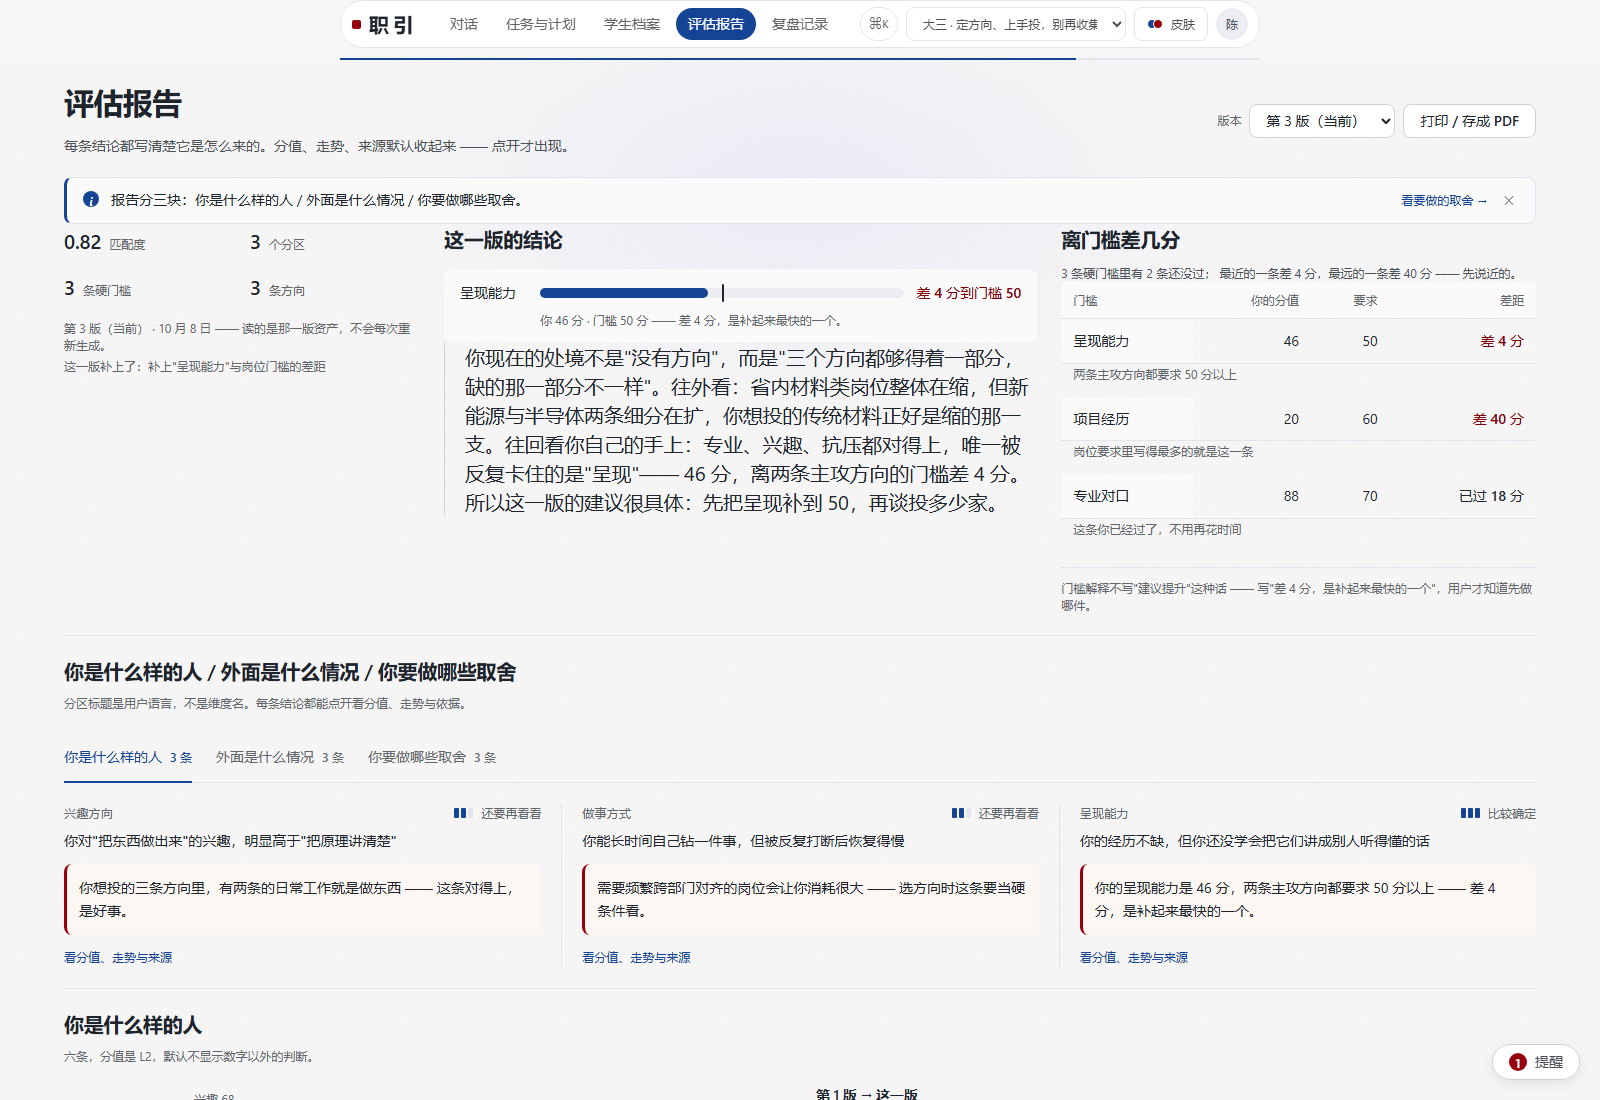
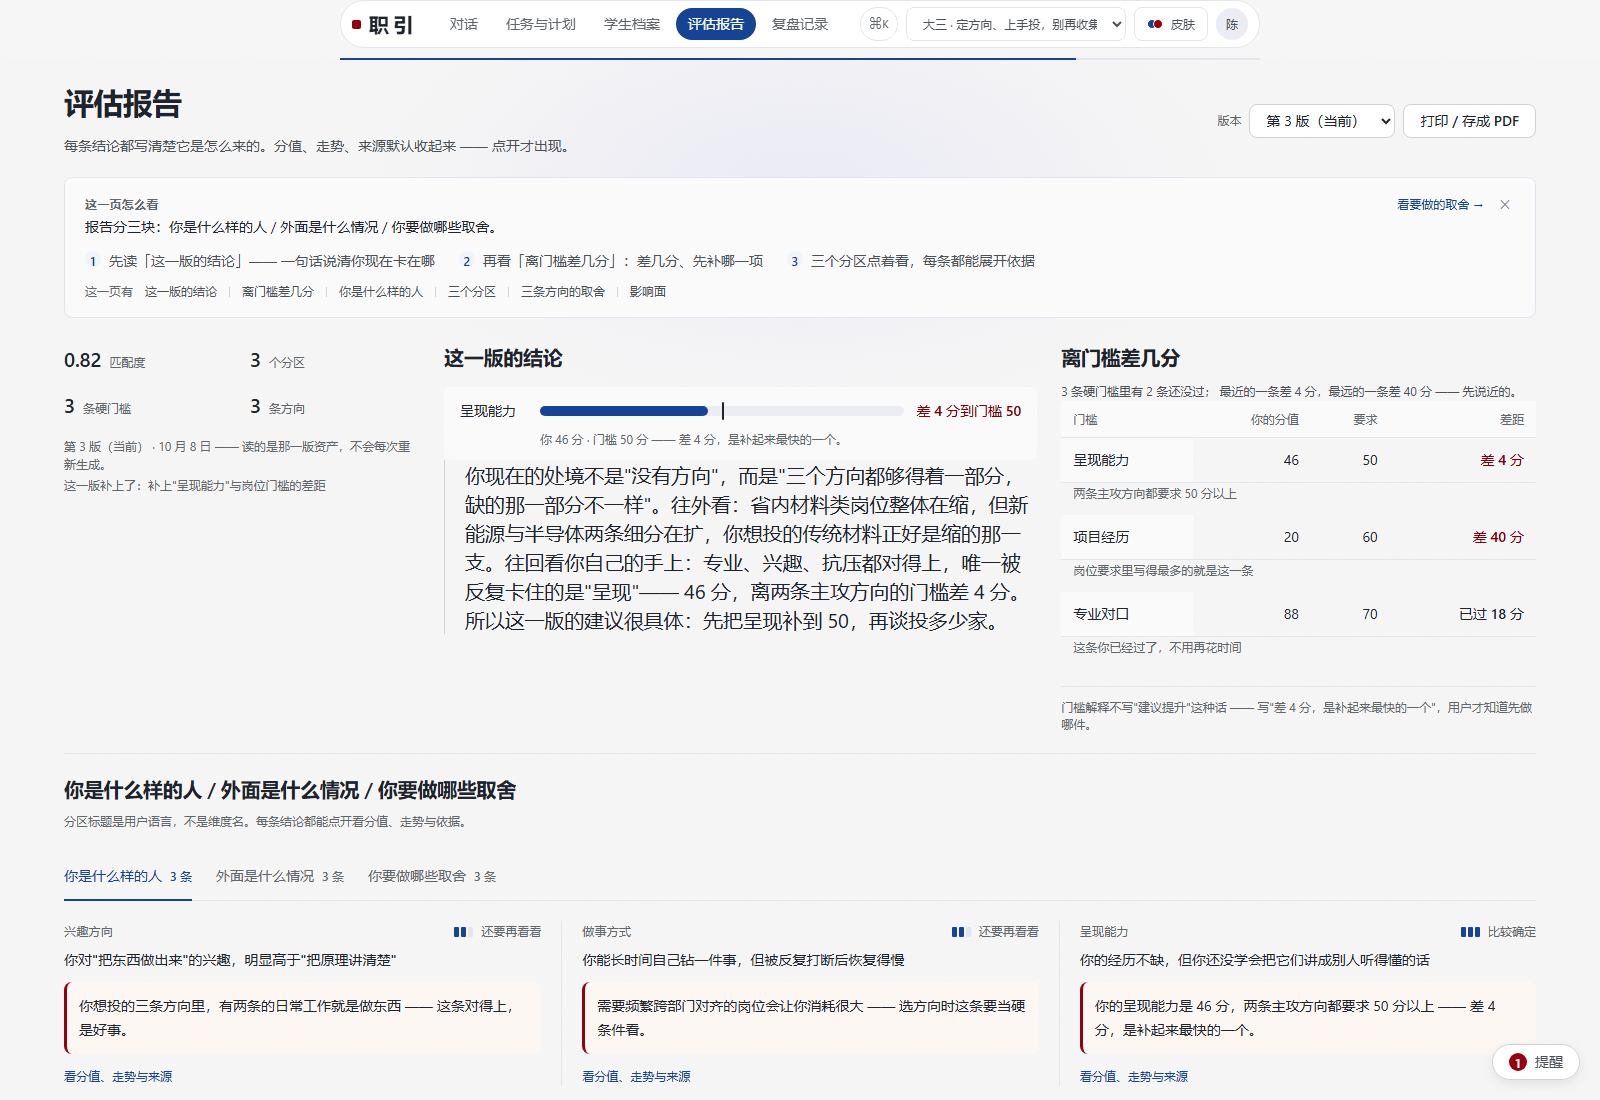
新前端：每页加「这一页怎么看 + 这一页有」入口带，解决"打开不知道从哪下手"
客户的原话：「感觉乱，我希望用户一点开就能知道如何使用，清晰的知道有什么信息，
现在的界面上下左右都有信息，用户不知道如何使用。」

查出的直接原因：那条"这里是干什么的、下一步去哪"的引导条（GuideNote）
在前几轮重做里被放到了**每页最下面**（五页里只有报告页在顶部）——
"怎么用"是最后一屏才看到的东西，等于没有。

改动：
- GuideNote 重做成**入口带**，固定放在页头正下方第一位，承担三件事：
  · 一句"这一页是什么"
  · 三步"怎么看"（编号，给出的就是阅读顺序）
  · 一行"这一页有"（块名按出现顺序列全 —— 客户要的"知道有什么信息"）
  收起后仍不再打扰，可以一次恢复。
- 五页都补了三步与清单，用词全部取自该页真有的分区名（"今天这一件""两本账"
  "还差 3 条""离门槛差几分"…），不新造词。
- 顺手把 GuideNote 里那道 3px 主色左线去掉（craft floor 明令禁止装饰性彩色竖规）。

验证：五页入口带均在位（步骤 3 / 清单 5–6 项）；
build / check-contrast / check-classes 三条门禁全绿；26 张回归截图已重拍。
整页高度 0.9 / 1.7 / 1.2 / 2.4 / 1.6 / 1.1 屏，没有回到"滚三屏"。

diff --git a/redesign-demo/src/components/GuideNote.vue b/redesign-demo/src/components/GuideNote.vue
@@ -3,15 +3,35 @@ import { computed } from 'vue'
 import { demo } from '../store'
 
 /**
- * 操作引导 —— 评审硬要求。
+ * 这一页怎么看 —— 每页的**入口**，位置固定在页头正下方第一位。
  *
- * 每进入一处功能，先说清"这里是干什么的、下一步去哪"，
- * 用户收起后不再打扰（记住收起了哪几处），但可以一次恢复。
+ * 【2026-10-12 重做】客户的原话：
+ *   「感觉乱，我希望用户一点开就能知道如何使用，清晰的知道有什么信息，
+ *     现在的界面上下左右都有信息，用户不知道如何使用。」
+ *
+ * 所以它现在承担三件事，对应客户说的三个缺口：
+ *   1. 一点开就知道怎么用   → 一句"这一页是什么" + 三步"怎么看"，第一步就是入口
+ *   2. 清晰知道有什么信息   → 三步的用词全部取自这一页真有的分区名，不新造词
+ *   3. 上下左右都有信息、没顺序 → 三步是**编号的**，它给出的就是阅读顺序
+ *
+ * 上一版的毛病：它被放在页面**最下面**（只有报告页在顶部），而且长得像脚注。
+ * "怎么用"是最后一屏才看到的东西 —— 那就等于没有。
+ *
+ * 评审硬要求仍然成立：用户收起后不再打扰（记住收起了哪几处），可以一次恢复。
  */
 const props = defineProps<{
   /** 唯一 key：同一页可以有两条引导 */
   gkey: string
+  /** 这一页是什么、下一步去哪（语气档一：说人话） */
   text: string
+  /** 三步"怎么看"。每一步都必须是这一页上真有的东西：分区名、块名、动作名。 */
+  steps?: string[]
+  /**
+   * 「这一页有」：把这一页的块名**按出现顺序**列一遍。
+   * 与 steps 的区别：steps 是"怎么做"（动作），contents 是"有什么"（清单）——
+   * 客户的原话是"清晰的知道有什么信息"，光有步骤还是不知道一共有几块。
+   */
+  contents?: string[]
   /** 下一步去哪（可选） */
   to?: string
   toLabel?: string
@@ -22,72 +42,150 @@ const closed = computed(() => demo.state.guidesClosed[props.gkey] === true)
 
 <template>
   <Transition name="guide">
-    <div v-if="!closed" class="guide">
-      <span class="guide__mark" aria-hidden="true">i</span>
-      <p class="guide__text">{{ text }}</p>
-      <RouterLink v-if="to" class="guide__to" :to="to">{{ toLabel ?? '去下一步' }} →</RouterLink>
-      <button class="guide__close" aria-label="收起这条引导" @click="demo.closeGuide(gkey)">
-        ✕
-      </button>
-    </div>
+    <section v-if="!closed" class="howto" aria-label="这一页怎么看">
+      <div class="howto__main">
+        <p class="howto__title">这一页怎么看</p>
+        <p class="howto__text">{{ props.text }}</p>
+        <ol v-if="props.steps?.length" class="howto__steps">
+          <li v-for="(s, i) in props.steps" :key="i" class="howto__step">
+            <span class="howto__n" aria-hidden="true">{{ i + 1 }}</span>
+            <span>{{ s }}</span>
+          </li>
+        </ol>
+
+        <!-- 「这一页有什么」—— 清单，不是动作。用户看完这一行就知道往下还有几块 -->
+        <p v-if="props.contents?.length" class="howto__index">
+          <span class="howto__index-k">这一页有</span>
+          <span v-for="(c, i) in props.contents" :key="i" class="howto__index-i">{{ c }}</span>
+        </p>
+      </div>
+
+      <div class="howto__side">
+        <RouterLink v-if="props.to" class="howto__to" :to="props.to">
+          {{ props.toLabel ?? '去下一步' }} →
+        </RouterLink>
+        <button class="howto__close" aria-label="收起这条引导" @click="demo.closeGuide(props.gkey)">
+          ✕
+        </button>
+      </div>
+    </section>
   </Transition>
 </template>
 
 <style scoped>
-.guide {
+.howto {
   display: flex;
   align-items: flex-start;
-  gap: var(--sp-3);
-  padding: var(--sp-3) var(--sp-4);
+  gap: var(--sp-4);
+  margin-bottom: var(--sp-6);
+  padding: var(--sp-4) var(--sp-5);
   border-radius: var(--r-md);
-  /* 中性底 + 一道主色左线。
-     不用主色浅底：主色换成河大红之后，整条提示会变成红的，读起来像警告 ——
-     而它只是"这里是干什么的"。主色底只留给"选中/交互"。 */
   background: var(--c-surface-2);
   border: var(--bw-1) solid var(--c-border);
-  border-left: 3px solid var(--c-primary);
 }
 
-.guide__mark {
-  width: 16px;
-  height: 16px;
-  flex: none;
-  margin-top: 1px;
-  display: grid;
-  place-items: center;
-  border-radius: var(--r-pill);
-  background: var(--c-primary);
-  color: var(--c-on-primary);
+.howto__main {
+  flex: 1;
+  min-width: 0;
+}
+
+.howto__title {
   font-size: var(--fs-12);
   font-weight: var(--fw-semibold);
-  font-style: italic;
+  color: var(--c-text-3);
+  letter-spacing: 0.02em;
 }
 
-.guide__text {
-  flex: 1;
+.howto__text {
+  margin-top: 2px;
   font-size: var(--fs-14);
   color: var(--c-text);
   line-height: var(--lh-snug);
+  max-width: 46em;
 }
 
-.guide__to {
+/* 三步横排：一屏一行放下，读起来就是"①→②→③" */
+.howto__steps {
+  display: flex;
+  flex-wrap: wrap;
+  gap: var(--sp-2) var(--sp-6);
+  margin-top: var(--sp-3);
+}
+
+.howto__step {
+  display: flex;
+  align-items: baseline;
+  gap: var(--sp-2);
+  font-size: var(--fs-14);
+  color: var(--c-text-2);
+}
+
+.howto__n {
+  width: 16px;
+  height: 16px;
   flex: none;
+  display: grid;
+  place-items: center;
+  border-radius: var(--r-pill);
+  background: var(--c-primary-weak);
+  color: var(--c-primary);
+  font-size: var(--fs-12);
+  font-weight: var(--fw-semibold);
+}
+
+/* 「这一页有」：块名一行排开，中间用发丝竖线分而不是圆点（圆点已被步骤占用） */
+.howto__index {
+  display: flex;
+  flex-wrap: wrap;
+  align-items: baseline;
+  gap: 0 var(--sp-3);
+  margin-top: var(--sp-2);
+  font-size: var(--fs-12);
+  color: var(--c-text-3);
+}
+
+.howto__index-k {
+  color: var(--c-text-3);
+}
+
+.howto__index-i + .howto__index-i::before {
+  content: '';
+  display: inline-block;
+  width: var(--bw-1);
+  height: 10px;
+  margin-right: var(--sp-3);
+  background: var(--c-border-strong);
+  vertical-align: -1px;
+}
+
+.howto__index-i {
+  color: var(--c-text-2);
+}
+
+.howto__side {
+  flex: none;
+  display: flex;
+  align-items: center;
+  gap: var(--sp-3);
+}
+
+.howto__to {
   font-size: var(--fs-12);
   font-weight: var(--fw-medium);
   white-space: nowrap;
 }
 
-.guide__close {
-  flex: none;
+.howto__close {
   width: 20px;
   height: 20px;
+  flex: none;
   border-radius: var(--r-sm);
   color: var(--c-text-3);
   font-size: var(--fs-12);
   line-height: 1;
 }
 
-.guide__close:hover {
+.howto__close:hover {
   background: var(--c-surface-3);
   color: var(--c-text);
 }
@@ -100,5 +198,16 @@ const closed = computed(() => demo.state.guidesClosed[props.gkey] === true)
 .guide-enter-from,
 .guide-leave-to {
   opacity: 0;
+}
+
+@media (max-width: 760px) {
+  .howto {
+    flex-direction: column;
+  }
+
+  .howto__side {
+    width: 100%;
+    justify-content: flex-end;
+  }
 }
 </style>

diff --git a/redesign-demo/src/views/HomeView.vue b/redesign-demo/src/views/HomeView.vue
@@ -65,6 +65,20 @@ function badgeClass(t: TaskItem) {
       </div>
     </header>
 
+    <!-- 入口：放在页头正下方第一位。三步的用词全部取自这一页真有的分区名。 -->
+    <GuideNote
+      gkey="home"
+      :text="GUIDES.home"
+      :steps="[
+        '看「今天这一件」—— 今天唯一要做的事',
+        '往下扫三组任务：现在要做的 · 等着的 · 已经做完的',
+        '做不动就点「太大，改小」—— 回退是设计好的',
+      ]"
+      :contents="['今天这一件', '现在要做的', '等着的', '已经做完的', '学生档案', '变化与支持']"
+      to="/plan"
+      to-label="看完整计划"
+    />
+
     <div class="ledger">
       <!-- 紧凑统计条（2026-10-12 新加）：这一屏"有几个什么"摊在一条线上，一眼看完，
            不用往下滚。它刻意不做成"大数字 + 强调色"的 hero metric ——
@@ -243,7 +257,7 @@ function badgeClass(t: TaskItem) {
       </section>
     </div>
 
-    <GuideNote gkey="home" :text="GUIDES.home" to="/plan" to-label="看完整计划" />
+
   </div>
 </template>
 

diff --git a/redesign-demo/src/views/ProfileView.vue b/redesign-demo/src/views/ProfileView.vue
@@ -157,6 +157,20 @@ const ring = computed(() => {
       </p>
     </header>
 
+    <!-- 入口：放在页头正下方第一位 -->
+    <GuideNote
+      gkey="profile"
+      :text="GUIDES.profile"
+      :steps="[
+        '先看左边：三层来源，共 12 条 —— 哪来的、准不准都标了',
+        '点一条，右边看它的依据与把握程度',
+        '看「还差 3 条」：缺的口子在哪、去哪补',
+      ]"
+      :contents="['学校系统里的事实', '三层来源的 12 条', '还差 3 条', '采集动线', '核验学籍']"
+      to="/chat"
+      to-label="去聊两句"
+    />
+
     <article class="wb">
       <!-- ① 顶部一条带：左 = 进度环 + 三个计数，右 = 学校系统里的事实。
            两块并排而不是上下叠 —— 客户要的是"用满横向、少滚动"。
@@ -353,7 +367,7 @@ const ring = computed(() => {
       </section>
     </article>
 
-    <GuideNote gkey="profile" :text="GUIDES.profile" to="/chat" to-label="去聊两句" />
+
   </div>
 </template>
 

diff --git a/redesign-demo/src/views/PlanView.vue b/redesign-demo/src/views/PlanView.vue
@@ -157,6 +157,20 @@ function onTabKey(e: KeyboardEvent, i: number) {
       </div>
     </header>
 
+    <!-- 入口：放在页头正下方第一位 -->
+    <GuideNote
+      gkey="plan"
+      :text="GUIDES.plan"
+      :steps="[
+        '先看月历：点某一天，右边就是那天的事',
+        '再对「阶段里程碑」与「本周要做的」—— 两条线在同一屏',
+        '「两本账」分清哪些是你自己写的、哪些是计划拆下来的',
+      ]"
+      :contents="['月历', '阶段里程碑', '本周要做的', '两本账', '做不动的时候']"
+      to="/review"
+      to-label="去复盘记录"
+    />
+
     <div class="ledger">
       <!-- 紧凑统计条：这一页的几个数，摆在最上面 -->
       <section class="ledger__row">
@@ -394,7 +408,7 @@ function onTabKey(e: KeyboardEvent, i: number) {
         </div>
       </section>
 
-      <GuideNote gkey="plan" :text="GUIDES.plan" to="/review" to-label="去复盘记录" />
+
     </div>
   </div>
 </template>

diff --git a/redesign-demo/src/views/ReviewView.vue b/redesign-demo/src/views/ReviewView.vue
@@ -134,6 +134,20 @@ const overridden = computed(
       </div>
     </header>
 
+    <!-- 入口：放在页头正下方第一位 -->
+    <GuideNote
+      gkey="review"
+      :text="GUIDES.review"
+      :steps="[
+        '先看「这一周你动过多少手」—— 做成的先摆出来',
+        '左边点一条，右边是它的结果与归因',
+        '没做成的那件，在右边选一个归因：任务 · 方法 · 方向（不归到人）',
+      ]"
+      :contents="['你做到了什么', '这一周的时间线', '归因', '两种说法', '收起参数']"
+      to="/home"
+      to-label="回任务与计划"
+    />
+
     <article class="article">
       <!-- 紧凑统计条：这一周的四个数，摆在首屏最上面 -->
       <section class="sec">
@@ -311,7 +325,7 @@ const overridden = computed(
       </section>
     </article>
 
-    <GuideNote gkey="review" :text="GUIDES.review" to="/home" to-label="回任务与计划" />
+
   </div>
 </template>
 

diff --git a/redesign-demo/src/views/ReportView.vue b/redesign-demo/src/views/ReportView.vue
@@ -180,7 +180,19 @@ const previous = computed(() => demo.use.previousDirection.value)
       </div>
     </header>
 
-    <GuideNote gkey="report" :text="GUIDES.report" to="/path" to-label="看要做的取舍" />
+    <!-- 入口：放在页头正下方第一位 -->
+    <GuideNote
+      gkey="report"
+      :text="GUIDES.report"
+      :steps="[
+        '先读「这一版的结论」—— 一句话说清你现在卡在哪',
+        '再看「离门槛差几分」：差几分、先补哪一项',
+        '三个分区点着看，每条都能展开依据',
+      ]"
+      :contents="['这一版的结论', '离门槛差几分', '你是什么样的人', '三个分区', '三条方向的取舍', '影响面']"
+      to="/path"
+      to-label="看要做的取舍"
+    />
 
     <article class="article">
       <!--
